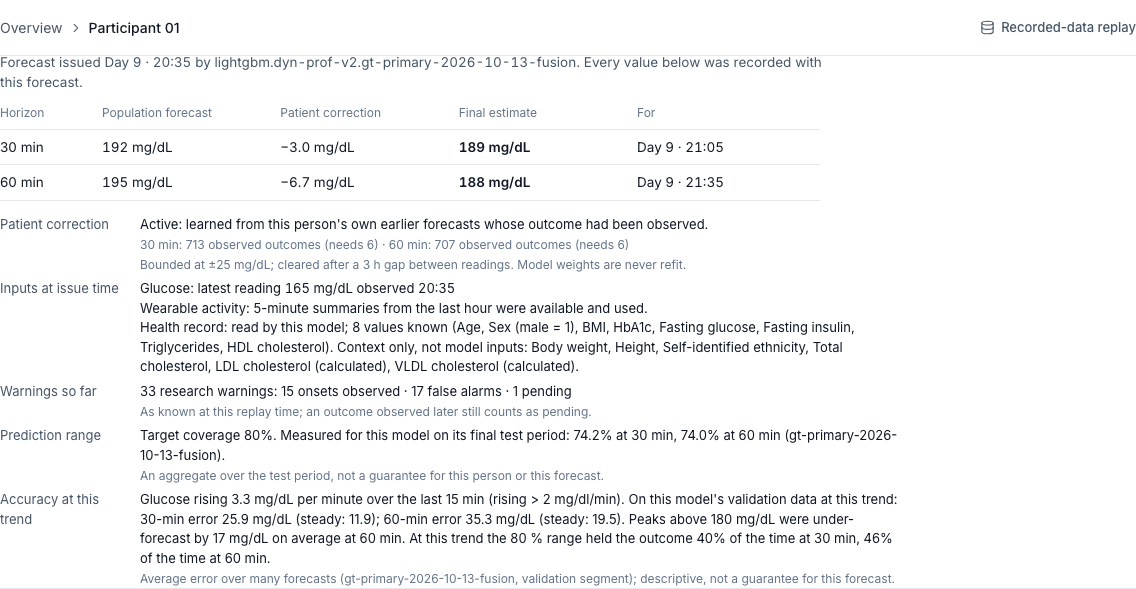
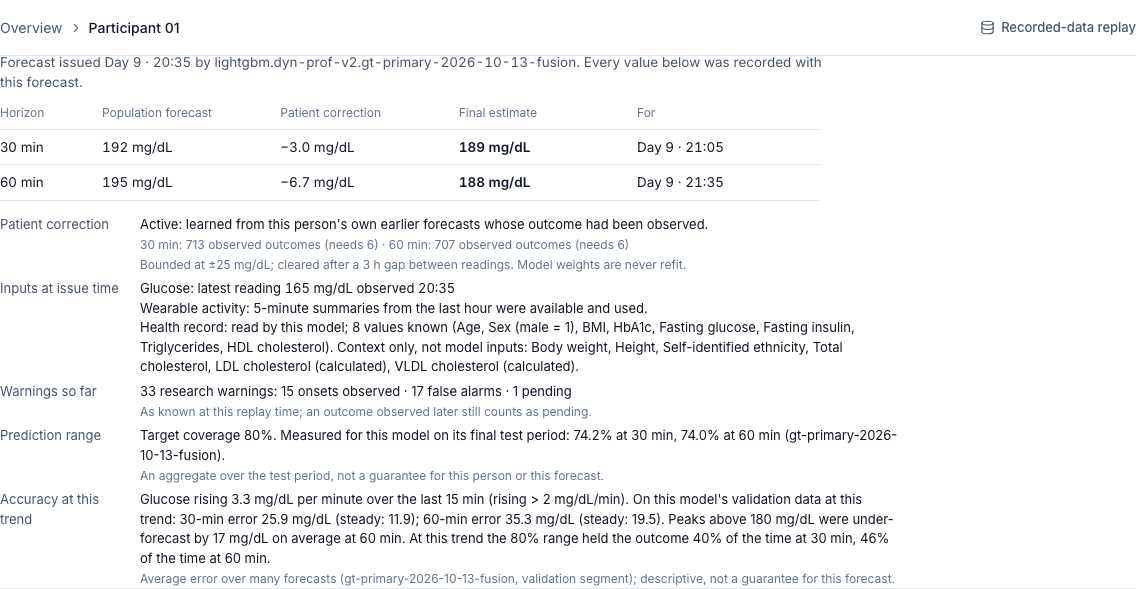
test(e2e): judge journey on recorded data — inputs, forecast, pinned outcome, warnings, review, frozen summary, gap and recovery, queue isolation
Fixes in the explanation's trend line: the stratum label kept its unit case (mg/dL, was mg/dl) and the range level comes
from the forecast's own target instead of a hard-coded "80 %".

Changed region(s): [[0.1232, 0.8251, 0.8011, 0.9474]]

diff --git a/apps/web/e2e/judge-journey.spec.ts b/apps/web/e2e/judge-journey.spec.ts
@@ -1,0 +1,211 @@
+/**
+ * The judge's patient-review story, rehearsed end to end on recorded data (Participant 01 and Participant 12), at the
+ * video's recording resolution. Each step asserts what the narration says and saves one screenshot to
+ * reports/ui/journey/. Skipped cleanly when CGMacros is not imported on this machine.
+ */
+import { expect, test, type Page } from "@playwright/test";
+import { API } from "./env";
+
+const SHOTS = "../../reports/ui/journey";
+const PROFILE_INPUTS = ["Age", "Sex (male = 1)", "BMI", "HbA1c", "Fasting glucose", "Fasting insulin", "Triglycerides",
+  "HDL cholesterol"];
+
+async function byAlias(page: Page, alias: string) {
+  const pts = await (await page.request.get(`${API}/patients?mode=dataset_replay&limit=200`)).json();
+  return (pts.items ?? []).find((x: { display_alias: string }) => x.display_alias === alias);
+}
+
+async function startTestPeriod(page: Page, patientId: string) {
+  const previous = new URL(page.url()).searchParams.get("session");
+  await page.getByRole("button", { name: "New replay" }).first().click();
+  const dialog = page.getByRole("dialog", { name: "New replay" });
+  await dialog.getByRole("radio", { name: /Recorded-data replay/ }).check();
+  await dialog.getByLabel("Participant", { exact: true }).selectOption(patientId);
+  await dialog.getByRole("radio", { name: /Final test period/ }).check();
+  await dialog.getByRole("button", { name: "Start replay" }).click();
+  await expect.poll(() => new URL(page.url()).searchParams.get("session")).not.toBe(previous);
+  return new URL(page.url()).searchParams.get("session")!;
+}
+
+/** A seek as the timeline does it (new revision), then wait for the workspace to show that revision. */
+async function seek(page: Page, sid: string, iso: string) {
+  await page.request.post(`${API}/replay/sessions/${sid}/control`, { data: { action: "seek", seek_to: iso } });
+  await page.reload();
+  await expect(page.getByRole("group", { name: "Replay controls" })).toBeVisible();
+  await expect(page.getByText(/Loading released observations/).first()).toBeHidden();
+}
+
+async function clockLabel(page: Page, label: string) {
+  await expect(page.getByText(label).first()).toBeVisible();
+}
+
+test.describe("judge journey (recorded data, 1920×1080)", () => {
+  test.use({ viewport: { width: 1920, height: 1080 } });
+
+  test("Participant 01: inputs, forecast, outcome, warnings, review and a frozen summary", async ({ page }) => {
+    const p = await byAlias(page, "Participant 01");
+    test.skip(!p, "CGMacros not imported on this machine");
+    const errors: string[] = [];
+    page.on("pageerror", (e) => errors.push(e.message));
+    await page.goto("/app");
+    const sid = await startTestPeriod(page, p.patient_id);
+    await seek(page, sid, "2000-01-11T20:38:00Z");
+    await clockLabel(page, "Day 9 · 20:38");
+
+    // 1. the explanation names the 8 profile values the model reads, and wearable availability
+    const explain = page.getByRole("region", { name: "How the twin reached this forecast" });
+    await expect(explain).toContainText("Health record: read by this model; 8 values known");
+    for (const label of PROFILE_INPUTS) await expect(explain).toContainText(label);
+    await expect(explain).toContainText("Context only, not model inputs");
+    await expect(explain).toContainText("Wearable activity: 5-minute summaries from the last hour were available and used.");
+    await explain.scrollIntoViewIfNeeded();
+    await page.screenshot({ path: `${SHOTS}/01-inputs-read-by-the-model.png` });
+
+    // 2. the 20:35 forecast: population, bounded correction, final estimate, measured range limitation
+    await expect(explain).toContainText("Forecast issued Day 9 · 20:35");
+    const comp = explain.getByRole("table", { name: "Forecast components" });
+    await expect(comp).toContainText("192 mg/dL");
+    await expect(comp).toContainText("−3.0 mg/dL");
+    await expect(comp).toContainText("189 mg/dL");
+    await expect(comp).toContainText("195 mg/dL");
+    await expect(comp).toContainText("−6.7 mg/dL");
+    await expect(comp).toContainText("188 mg/dL");
+    await expect(explain).toContainText("Bounded at ±25 mg/dL");
+    await expect(explain).toContainText(/74\.2%.*74\.0%/);
+    await expect(explain).toContainText("Accuracy at this trend");
+    await expect(explain).toContainText(/range held the outcome \d+% of the time at 30 min, \d+% of the time at 60 min/);
+    await expect(explain).toContainText("(rising > 2 mg/dL/min)"); // unit case kept
+    await page.screenshot({ path: `${SHOTS}/02-forecast-components.png` });
+    console.log("STEP2::" + (await explain.innerText()).replace(/\n/g, " | "));
+
+    // 3. pin the 20:35 forecast, step on one hour, reopen: the released readings and the correction's effect
+    await page.getByRole("button", { name: "View forecast details" }).click();
+    const drawer = page.getByRole("dialog", { name: "Forecast details" });
+    await expect(drawer).toContainText("Issued at Day 9 · 20:35");
+    await page.keyboard.press("Escape");
+    await expect(drawer).toBeHidden();
+    await page.getByRole("button", { name: "Step 1 h forward" }).click();
+    await clockLabel(page, "Day 9 · 21:38");
+    await page.getByRole("button", { name: "View forecast details" }).click();
+    await expect(drawer).toContainText("Issued at Day 9 · 20:35");
+    const outcome = drawer.getByRole("region", { name: "Outcome" });
+    await expect(outcome).toContainText(/30 min \(for 21:05\): observed reading 189 mg\/dL at 21:05/);
+    await expect(outcome).toContainText(/60 min \(for 21:35\): observed reading 169 mg\/dL at 21:35/);
+    await expect(outcome).toContainText(/The patient correction moved this forecast [\d.]+ mg\/dL closer to the observed value/);
+    await outcome.scrollIntoViewIfNeeded();
+    await page.screenshot({ path: `${SHOTS}/03-forecast-outcome.png` });
+    console.log("STEP3::" + (await outcome.innerText()).replace(/\n/g, " | "));
+    await page.keyboard.press("Escape");
+
+    // 4. the warning list holds both a false alarm and the matched 20:30 onset with its lead
+    const warnings = page.getByRole("region", { name: /^Warnings/ });
+    await expect(warnings.getByText("No onset (false alarm)").first()).toBeVisible();
+    const w2030 = warnings.locator(".warn").filter({ hasText: "Day 9 · 20:30" }).first();
+    await expect(w2030).toContainText(/Onset 20:45 · forecast lead \d+ min/);
+    await w2030.scrollIntoViewIfNeeded();
+    await page.screenshot({ path: `${SHOTS}/04-warnings-hit-and-false-alarm.png` });
+    console.log("STEP4::" + (await w2030.innerText()).replace(/\n/g, " | "));
+
+    // 5. review with a note, then a frozen summary with participant, session, revision, model and cutoff
+    await page.getByRole("button", { name: "Mark warning issued Day 9 · 20:30 as reviewed" }).click();
+    const review = page.getByRole("dialog", { name: "Review research warning" });
+    await review.getByLabel("Review note (optional)").fill("Seen; recheck after dinner.");
+    await review.getByRole("button", { name: "Save review" }).click();
+    await expect(review).toBeHidden();
+    await expect(page.getByText("Seen; recheck after dinner.").first()).toBeVisible();
+    const sess = await (await page.request.get(`${API}/replay/sessions/${sid}`)).json();
+    await page.getByRole("button", { name: "Review summary" }).click();
+    const dialog = page.getByRole("dialog", { name: "Review summary" });
+    const report = dialog.getByRole("article", { name: "Review summary report" });
+    await expect(report).toContainText("Participant 01");
+    await expect(report).toContainText(`${sid} · revision ${sess.revision}`);
+    await expect(report).toContainText("lightgbm.dyn-prof-v2.gt-primary-2026-10-13-fusion");
+    await expect(report).toContainText("Day 9 · 21:38 (replay time)");
+    await expect(report).toContainText("Seen; recheck after dinner.");
+    const frozen = await report.innerText();
+    await page.screenshot({ path: `${SHOTS}/05-frozen-review-summary.png` });
+    await page.keyboard.press("Escape");
+    // stepping on does not change the copy
+    await page.getByRole("button", { name: "Step 5 min forward" }).click();
+    await clockLabel(page, "Day 9 · 21:43");
+    await page.getByRole("button", { name: "Review summary" }).click();
+    await expect(dialog.getByText(/The replay has moved to Day 9 · 21:43 since this copy/)).toBeVisible();
+    expect(await report.innerText()).toBe(frozen);
+    await page.keyboard.press("Escape");
+
+    // a rewind clears the pinned forecast: the drawer then shows the latest forecast of the new revision
+    await seek(page, sid, "2000-01-11T20:03:00Z");
+    await page.getByRole("button", { name: "View forecast details" }).click();
+    await expect(drawer).not.toContainText("Issued at Day 9 · 20:35");
+    await expect(drawer).toContainText(/Issued at Day 9 · 20:0\d/);
+    await page.keyboard.press("Escape");
+    expect(errors).toEqual([]);
+  });
+
+  test("Participant 12: a real sensor gap, abstention without a made-up forecast, then recovery", async ({ page }) => {
+    const p = await byAlias(page, "Participant 12");
+    test.skip(!p, "CGMacros not imported on this machine");
+    const errors: string[] = [];
+    page.on("pageerror", (e) => errors.push(e.message));
+    await page.goto("/app");
+    const sid = await startTestPeriod(page, p.patient_id);
+    await seek(page, sid, "2000-01-11T10:52:00Z");
+    const current = page.getByRole("region", { name: "Current glucose" });
+    await expect(current).toContainText("391");
+    await expect(current.getByText(/Stale/)).toBeVisible();
+    await seek(page, sid, "2000-01-11T11:47:00Z");
+    const f60 = page.getByRole("region", { name: "60-minute forecast" });
+    await expect(f60.getByText("Not available")).toBeVisible();
+    await expect(f60.getByText(/\d+\s*mg\/dL/)).toHaveCount(0); // no fabricated number
+    await expect(page.getByRole("complementary", { name: "Review and guardrails" }).getByText("Insufficient information")).toBeVisible();
+    await page.screenshot({ path: `${SHOTS}/06-gap-abstention.png` });
+    // recovery: step on until a forecast is issued again from new readings
+    let recovered = "";
+    for (let i = 0; i < 24 && !recovered; i++) {
+      await page.getByRole("button", { name: "Step 5 min forward" }).click();
+      const lf = await (await page.request.get(`${API}/replay/sessions/${sid}/forecast`)).json();
+      if (lf.availability === "available" && lf.forecast?.quality?.status !== "insufficient") recovered = lf.clock_at;
+    }
+    expect(recovered).not.toBe("");
+    await expect(f60.getByText("mg/dL", { exact: true })).toBeVisible();
+    await page.screenshot({ path: `${SHOTS}/06b-gap-recovery.png` });
+    console.log("STEP6::recovered at " + recovered + " | " + (await f60.innerText()).replace(/\n/g, " | "));
+    expect(errors).toEqual([]);
+  });
+
+  test("queue: two replays are counted separately; an unknown count is never shown as zero", async ({ page }) => {
+    const a = await byAlias(page, "Participant 01");
+    const b = await byAlias(page, "Participant 12");
+    test.skip(!a || !b, "CGMacros not imported on this machine");
+    await page.goto("/app");
+    const sa = await startTestPeriod(page, a.patient_id);
+    const sb = await startTestPeriod(page, b.patient_id);
+    await page.request.post(`${API}/replay/sessions/${sa}/control`, { data: { action: "seek", seek_to: "2000-01-11T20:38:00Z" } });
+    await page.request.post(`${API}/replay/sessions/${sb}/control`, { data: { action: "seek", seek_to: "2000-01-11T11:47:00Z" } });
+    // cross-session isolation: each snapshot describes its own session, participant and revision
+    for (const [sid, pid] of [[sa, a.patient_id], [sb, b.patient_id]]) {
+      const snap = await (await page.request.get(`${API}/replay/sessions/${sid}/review-snapshot`)).json();
+      expect(JSON.stringify(snap)).toContain(sid);
+      expect(JSON.stringify(snap)).toContain(pid);
+    }
+    // one row's snapshot fails: that row says "Not known" with a retry, never "0 unreviewed"
+    let fail = true;
+    await page.route(`**/api/v1/replay/sessions/${sb}/review-snapshot`, (route) =>
+      fail ? route.fulfill({ status: 503, contentType: "application/json",
+        body: JSON.stringify({ schema_version: "1.0", error: { code: "unavailable", message: "Snapshot unavailable" } }) })
+        : route.continue());
+    await page.goto("/app/review-queue");
+    const table = page.getByRole("table", { name: "Review queue" });
+    const rowA = table.getByRole("row").filter({ has: page.locator(`a[href="/app?session=${sa}"]`) }).first();
+    const rowB = table.getByRole("row").filter({ has: page.locator(`a[href="/app?session=${sb}"]`) }).first();
+    await expect(rowA).toContainText(/\d+ unreviewed/);
+    await expect(rowB).toContainText("Not known");
+    await expect(rowB).not.toContainText("0 unreviewed");
+    await expect(page.getByRole("heading", { level: 1 })).toBeVisible();
+    fail = false;
+    await rowB.getByRole("button", { name: /Retry counting warnings for Participant 12/ }).click();
+    await expect(rowB).toContainText(/\d+ unreviewed/);
+    await expect(rowB).toContainText("Participant 12");
+    await expect(rowA).toContainText("Participant 01");
+  });
+});

diff --git a/apps/web/src/components/twin/TwinExplanation.tsx b/apps/web/src/components/twin/TwinExplanation.tsx
@@ -117,13 +117,13 @@ function Body({ e, stale, age }: { e: Explanation; stale: boolean; age: number |
             <dt>Accuracy at this trend</dt>
             <dd>
               Glucose {e.trend.slope > 0 ? "rising" : e.trend.slope < 0 ? "falling" : "changing"} {Math.abs(e.trend.slope).toFixed(1)} mg/dL per
-              minute over the last 15 min ({e.trend.label.toLowerCase()}). On this model's validation data at this trend:{" "}
+              minute over the last 15 min ({e.trend.label.charAt(0).toLowerCase() + e.trend.label.slice(1)}). On this model's validation data at this trend:{" "}
               {e.trend.byHorizon.filter((b) => b.mae != null).map((b) => `${b.horizon}-min error ${b.mae!.toFixed(1)} mg/dL`
                 + (e.trend!.steady || b.steadyMae == null ? "" : ` (steady: ${b.steadyMae.toFixed(1)})`)).join("; ")}.
               {e.trend.peakBias60 != null && e.trend.peakBias60 < 0 && <> Peaks above 180 mg/dL were under-forecast by {Math.abs(e.trend.peakBias60).toFixed(0)} mg/dL on average at 60 min.</>}
               {(() => {
                 const c = e.trend.byHorizon.filter((b) => b.rangeCoverage != null);
-                return c.length ? <> At this trend the 80 % range held the outcome {c.map((b) => `${fmtPct(b.rangeCoverage!, 0)} of the time at ${b.horizon} min`).join(", ")}.</> : null;
+                return c.length ? <> At this trend the {fmtPct(e.coverage.target ?? 0.8, 0)} range held the outcome {c.map((b) => `${fmtPct(b.rangeCoverage!, 0)} of the time at ${b.horizon} min`).join(", ")}.</> : null;
               })()}
               <span className="table__sub">Average error over many forecasts ({e.trend.experiment}, validation segment); descriptive, not a guarantee for this forecast.</span>
             </dd>
